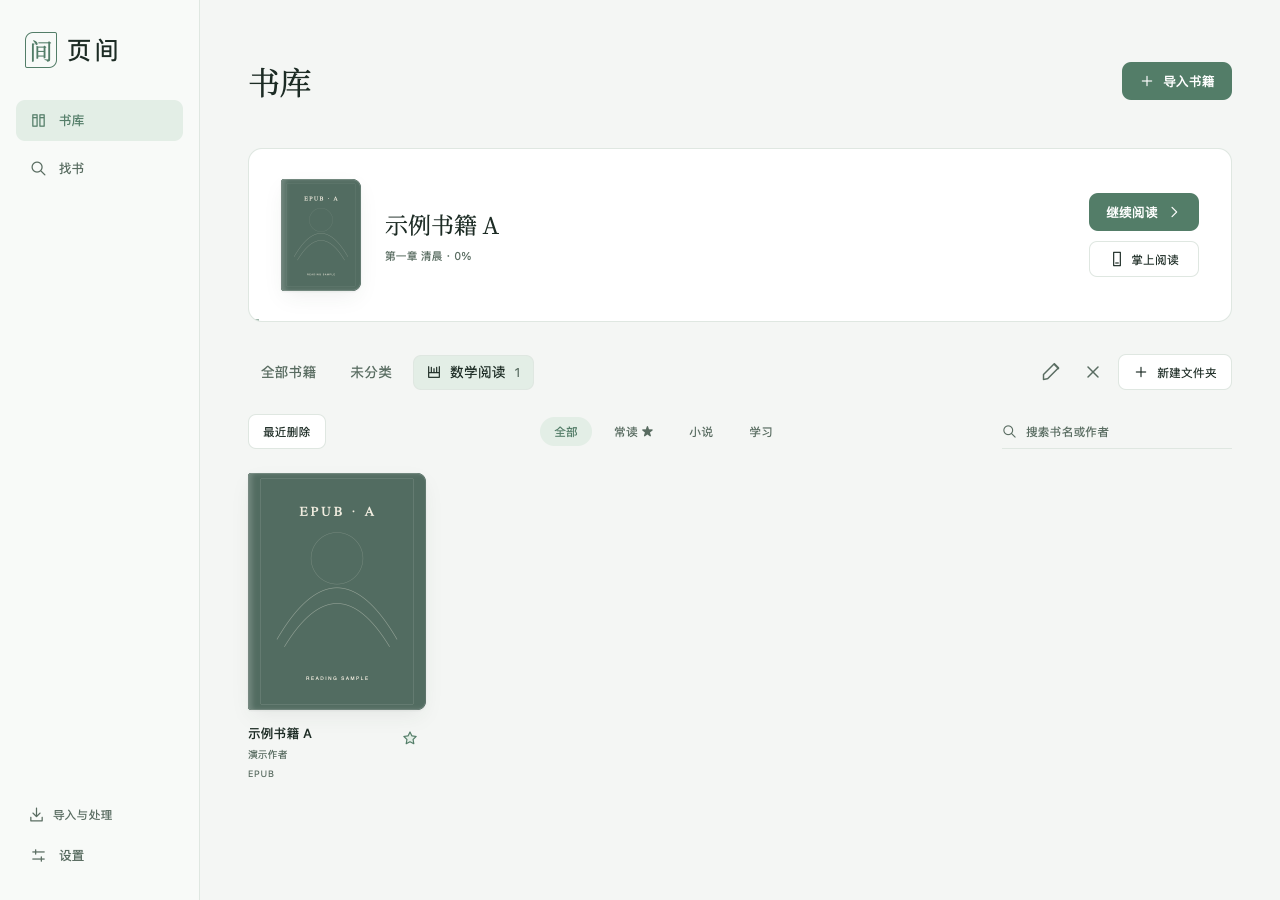
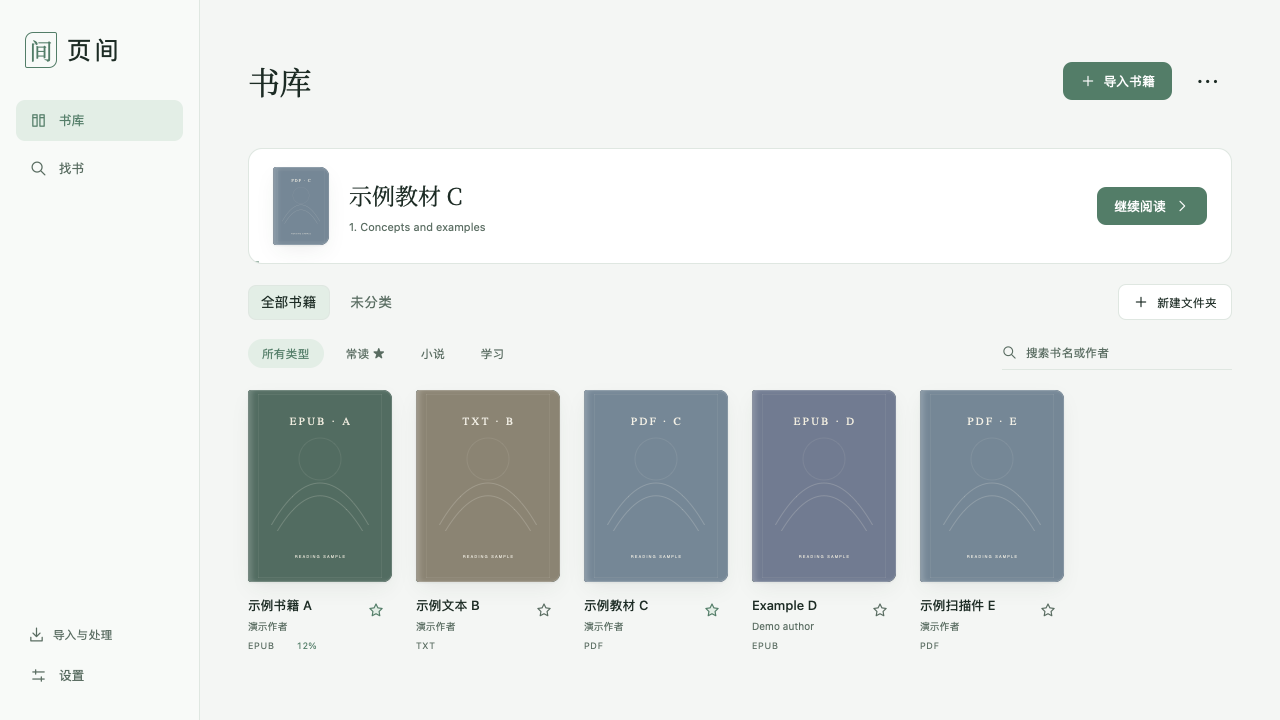
Improve reading space, navigation and library hierarchy

diff --git a/index.html b/index.html
@@ -10,7 +10,7 @@
     />
     <title>页间 · 书库</title>
     <link rel="icon" href="/assets/favicon.svg" />
-    <link rel="stylesheet" href="/layout.css?v=2.53" />
+    <link rel="stylesheet" href="/layout.css?v=2.54" />
   </head>
   <body data-theme="paper" data-view="library">
     <div id="startup" class="startup" role="status" aria-label="正在打开书库">
@@ -55,18 +55,13 @@
               <h1 id="library-title">书库</h1>
               <p id="library-summary" role="status"></p>
             </div>
-            <button class="primary-button" id="import-open">
-              <i data-icon="plus"></i>导入书籍
-            </button>
+            <div class="library-heading-actions"><button class="primary-button" id="import-open"><i data-icon="plus"></i>导入书籍</button><details class="library-management"><summary aria-label="书库管理">⋯</summary><button id="removed-books-open" class="secondary-button">最近删除</button></details></div>
           </header>
           <div id="continue-reading"></div>
           <nav id="folder-navigation" aria-label="书籍文件夹"></nav>
           <div class="library-tools">
-            <button id="removed-books-open" class="secondary-button">
-              最近删除
-            </button>
             <div class="filter-chips" id="shelf-filters">
-              <button data-filter="all" aria-pressed="true">全部</button
+              <button data-filter="all" aria-pressed="true">所有类型</button
               ><button data-filter="pinned" aria-pressed="false">常读 ★</button
               ><button data-filter="小说" aria-pressed="false">小说</button
               ><button data-filter="学习" aria-pressed="false">学习</button>
@@ -425,6 +420,7 @@
         </button>
       </header>
       <div class="reader-stage">
+        <button id="toc-scrim" aria-label="关闭目录"></button>
         <div
           id="reading-viewport"
           class="reading-viewport"
@@ -1195,6 +1191,6 @@
       aria-live="polite"
       aria-relevant="additions"
     ></div>
-    <script type="module" src="/ui/bootstrap.mjs?v=2.53"></script>
+    <script type="module" src="/ui/bootstrap.mjs?v=2.54"></script>
   </body>
 </html>

diff --git a/layout.css b/layout.css
@@ -3960,3 +3960,28 @@ body[data-theme="night"] .danger-button { color:#e89c8e; }
  .source-detail-body .source-metadata { grid-template-columns:repeat(2,minmax(0,1fr)); gap:24px; }
 }
 .source-acquire input, .source-filters input { accent-color:var(--accent); }
+
+/* Reserve reading space for a docked table of contents. */
+.reader.toc-docked:not(.focused) .reader-stage { margin-left:320px; }
+.reader.focused .reader-aside { display:none; }
+@media(min-width:1100px) { .reader.toc-docked .reader-aside { top:72px; bottom:64px; left:16px; } }
+.continue-card { min-height:116px; padding:16px 24px; margin-bottom:20px; gap:20px; }
+.continue-card .small-cover { width:56px; height:78px; }
+#folder-navigation { margin:16px 0; }
+.library-tools { margin-bottom:20px; }
+.book-grid { grid-template-columns:repeat(auto-fill,minmax(140px,1fr)); gap:24px; }
+.library-book { max-width:180px; }
+.reader-actions { gap:4px; }
+#ai-open, #toc-toggle, #reader-settings-open { margin-left:8px; border-left:1px solid var(--line); border-radius:0; }
+.reader-footer { font-size:12px; }
+.library-heading-actions { display:flex; align-items:center; gap:12px; }
+.library-management { position:relative; }
+.library-management summary { list-style:none; cursor:pointer; padding:8px 12px; font-size:24px; }
+.library-management[open] > button { position:absolute; right:0; top:100%; z-index:30; white-space:nowrap; box-shadow:var(--shadow-card); }
+.book-read-progress { color:var(--accent); margin-left:8px; font-variant-numeric:tabular-nums; }
+.density-choices { display:flex; gap:8px; margin-bottom:20px; }
+.reader.compact-text .chapter-rule { margin:12px 0 18px; }
+.reader.focused #palm-bar { display:none; }
+#toc-scrim { display:none; position:absolute; inset:0; z-index:19; background:color-mix(in srgb,var(--ink) 20%,transparent); cursor:pointer; }
+.reader:not(.toc-docked):not(.focused):has(#reader-aside:not([hidden])) #toc-scrim { display:block; }
+#position-label, .page-controls, .timer-button { font-size:12px; }

diff --git a/tests/book_source_test.py b/tests/book_source_test.py
@@ -11,6 +11,13 @@ import book_source as source
 
 
 class BookSource(unittest.TestCase):
+    def test_unsupported_edition_is_rejected_before_download(self):
+        with tempfile.TemporaryDirectory() as directory, patch.object(source.CLIENT, "call", return_value={"format":"djvu"}) as call:
+            destination = Path(directory)/"download"
+            with self.assertRaises(ValueError): source.acquire("original-ref", destination)
+            self.assertFalse(destination.exists())
+            self.assertEqual(call.call_args.args[0], "get_book")
+            self.assertEqual(call.call_count, 1)
     def test_download_import_deduplicates_and_removes_temporary_files(self):
         import server
         with tempfile.TemporaryDirectory() as folder:
@@ -65,9 +72,10 @@ class BookSource(unittest.TestCase):
         with tempfile.TemporaryDirectory() as folder:
             base = Path(folder)
             outside = base/"outside.txt"; outside.write_text("outside")
-            with patch.object(source.CLIENT, "call", return_value={"path":str(outside)}):
+            with patch.object(source.CLIENT, "call", side_effect=lambda name,args: {"format":"txt"} if name == "get_book" else {"path":str(outside)}):
                 with self.assertRaises(ValueError): source.acquire("row-ref", base/"download")
             def download(name, args):
+                if name == "get_book": return {"format":"txt"}
                 path = Path(args["output_dir"])/"original.txt"; path.write_text("original")
                 return {"path":str(path)}
             with patch.object(source.CLIENT, "call", side_effect=download):

diff --git a/book_source.py b/book_source.py
@@ -220,6 +220,10 @@ def bounded(value, limit):
 
 
 def acquire(ref, destination):
+    from book_import import SUPPORTED
+    detail = CLIENT.call("get_book", {"ref": bounded(ref, 1024)})
+    if "." + str(detail.get("format", "")).lower().lstrip(".") not in SUPPORTED:
+        raise ValueError("页间暂不支持这个版本的格式，请选择其他版本。")
     destination.mkdir(parents=True, exist_ok=False)
     response = CLIENT.call("download", {"ref":bounded(ref, 1024), "output_dir":str(destination)})
     raw = Path(response.get("path", ""))

diff --git a/scripts/build_app.py b/scripts/build_app.py
@@ -187,8 +187,8 @@ def build(demo=False):
         "CFBundleExecutable": "page-between",
         "CFBundlePackageType": "APPL",
         "CFBundleIconFile": "App.icns",
-        "CFBundleShortVersionString": "0.5.31",
-        "CFBundleVersion": "255",
+        "CFBundleShortVersionString": "0.5.32",
+        "CFBundleVersion": "256",
         "PageBetweenSecretsSourceSHA256": digest,
         "NSHighResolutionCapable": True,
         "PageBetweenDemo": demo,

diff --git a/README.md b/README.md
@@ -10,11 +10,11 @@ iPhone 原生版本正在开发，支持 iOS 17 及以上；功能范围和 Xcod
 
 ## 下载与安装
 
-当前发布版本 **0.5.31**，提供 Apple Silicon（arm64）安装包。
+当前发布版本 **0.5.32**，提供 Apple Silicon（arm64）安装包。
 
 | 安装包 | 用途 |
 | --- | --- |
-| [页间 · 普通版](https://github.com/ruxin123/page-between/releases/download/v0.5.31/page-between-0.5.31-macos-arm64.zip) | 从空书库开始，导入自己的书籍 |
+| [页间 · 普通版](https://github.com/ruxin123/page-between/releases/download/v0.5.32/page-between-0.5.32-macos-arm64.zip) | 从空书库开始，导入自己的书籍 |
 
 1. 下载 ZIP 并解压，将「页间.app」拖入应用程序文件夹。
 2. 打开应用，在书库点击「导入书籍」，选择文件并设置是否启用文档解析。
@@ -48,7 +48,7 @@ iPhone 原生版本正在开发，支持 iOS 17 及以上；功能范围和 Xcod
 - 独立书库与阅读界面，支持常读、搜索和继续阅读。
 - 文字书默认分页，提供轻缓的翻页动画，也可切换连续滚动；PDF 默认连续阅读。
 - 中英文字体分别选择，调整字号、行距、版心宽度，切换清纸、雾松、暮蓝与夜墨主题。
-- 主窗口默认展开章节目录，支持书签、阅读进度、书内检索、跳转与返回；改变字号或窗口大小后尽量保持内容位置。
+- 宽窗口默认展开章节目录，窄窗口按需呼出，支持书签、阅读进度、书内检索、跳转与返回；改变字号或窗口大小后尽量保持内容位置。
 
 ### 保留 PDF 原貌，补足内容取用
 

diff --git a/docs/REVIEW_DIALOGUE.md b/docs/REVIEW_DIALOGUE.md
@@ -2,6 +2,12 @@
 
 这份文件用于持续交换判断、证据与问题。每轮追加日期、对应版本、采纳情况与验证结果；请保留此前记录，便于确认一个问题是否真正解决。
 
+## 2026-11-04 · 阅读空间与产品评估反馈（前端 2.54）
+
+已阅读本地产品评估，优先采纳已复现的目录遮挡、PDF 缩放不一致、格式下载前校验，以及书库首屏层级建议。宽窗口目录参与布局，窄窗口默认收起，设置打开时收起目录；保留默认宽屏章节导航与阅读锚点。缩放显示随实际绘制更新。书源由统一导入格式表决定可用性，后端在申请下载前读取版本元数据并拒绝不支持的格式。
+
+手机参考图的四份附件画面相同，未包含展开后的设置和目录，不能声称已逐项复刻这些状态。此次在 macOS 普通版与掌上／窄屏网页吸收点按呼出工具、滑动翻页原则，保护选区和长按；iPhone 原生界面尚未在本轮改造。保留绿色品牌、PDF 专业能力与各类阅读记录，未引入广告、运营奖励、社交或新的笔记工作台。后续仍应区分原生手机与桌面 WebKit 验收。
+
 ## 2026-11-03 · macOS 文件夹与找书信息（前端 2.53）
 
 文件夹作为用户定义的单层分类，一本书归入一个文件夹；常读及小说／学习类型仍可交叉筛选。分类仅保存在书库目录记录中，不移动原件、不重建解析。删除分类使书回到未分类，书籍软删除和恢复保留原分类；备份验证同时检查分类引用。

diff --git a/QA.md b/QA.md
@@ -1,5 +1,9 @@
 # 验证记录
 
+## 2026-11-04 · 阅读体验（前端 2.54）
+
+WebKit 在 1024／1280／1600 × 720 下检查 TXT、EPUB 与 PDF：宽屏目录为阅读视口预留空间，窄屏默认收起；PDF 设置与底栏缩放一致。1280×720 首排书名可见。窄屏点按收放工具通过；书源单元检查确认 DjVu 在发起 download 之前被拒绝。参考附件四图相同，未覆盖其设置与目录状态；本轮尚未修改 iPhone 原生界面。
+
 ## 2026-11-03 · 文件夹与找书（前端 2.53）
 
 分类核心测试覆盖新建、去重、改名、移入移出、重启读取、删除分类不改书籍、无效引用拒绝。书库备份／恢复检查包含分类记录；旧备份没有分类字段仍可恢复。WebKit 原创示例流程覆盖实际控件、归类、刷新、重命名、删除与全部书籍计数，找书独立详情页、返回结果列表、下载入口与筛选、窄屏和夜间截图；真实书源返回 20 条搜索结果，4 条抽查详情中 3 条有简介。真实资料只保留本机，不用于公开截图。详情字段缺失时省略，简介截断由上游明确标记。

diff --git a/docs/CHANGELOG.md b/docs/CHANGELOG.md
@@ -13,6 +13,16 @@
 - 原生选区菜单与最近选段重开，独立图像模型开关和提问时附图。
 - AI 答疑流式显示，停止后保留部分结果，按书保存出处与对话，支持重新生成。
 
+## 0.5.32 · 2026-11-04
+
+Build 256 · 前端 2.54。
+
+- 宽窗口目录为正文预留空间，窄窗口默认收起；设置与目录互斥展开，保留阅读位置。
+- PDF 设置与底栏同步实际缩放值，修复适配模式下百分比不同的问题。
+- 收紧继续阅读与文件夹区域，最近删除收至书库管理，书卡显示已有阅读进度。
+- 增加紧凑／舒展行距预设，整理阅读工具分组，窄屏和掌上支持点按收放工具。
+- 优化滑动翻页与选文的冲突；找书在下载前拦截不支持的格式。
+
 ## 0.5.31 · 2026-11-03
 
 [下载安装包](https://github.com/ruxin123/page-between/releases/tag/v0.5.31) · Build 255 · 前端 2.53。
